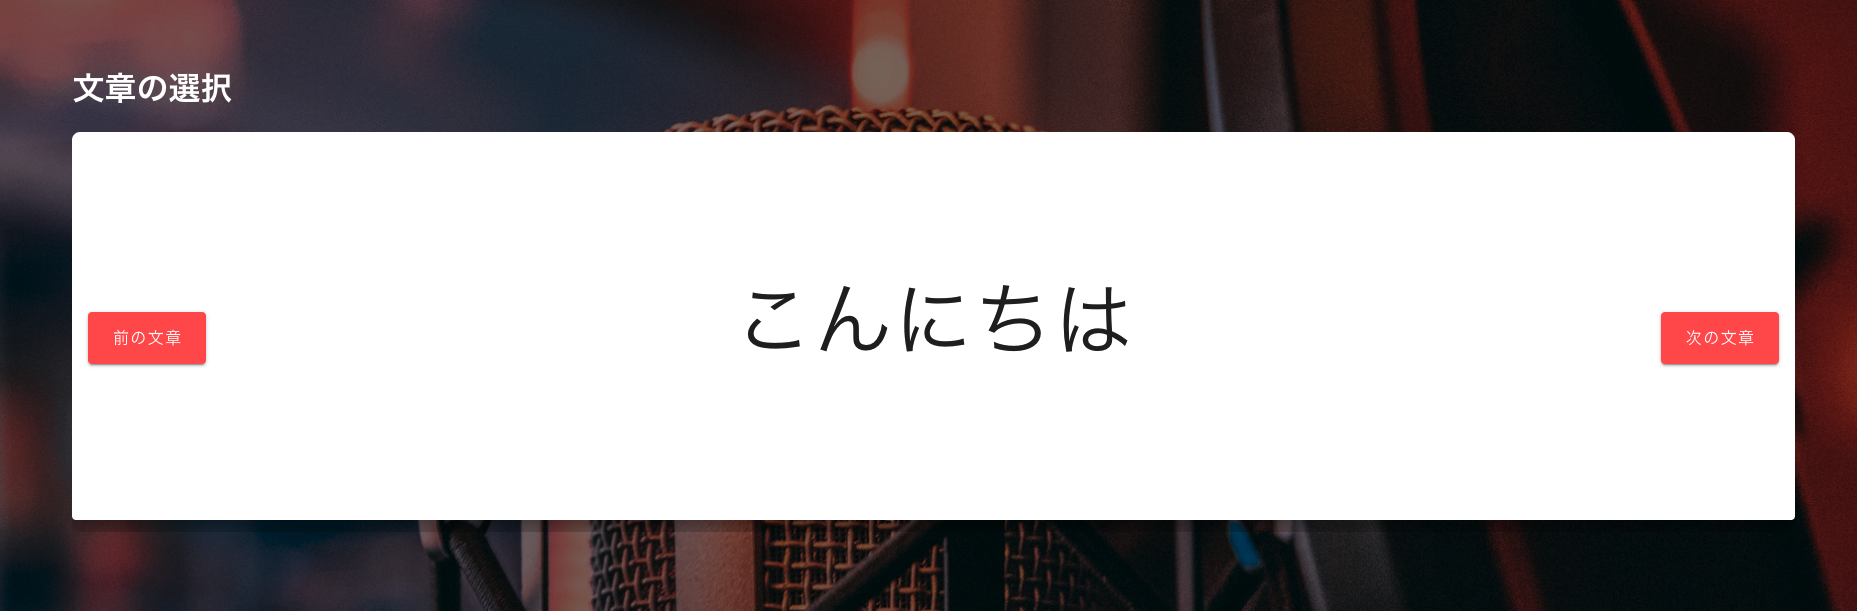
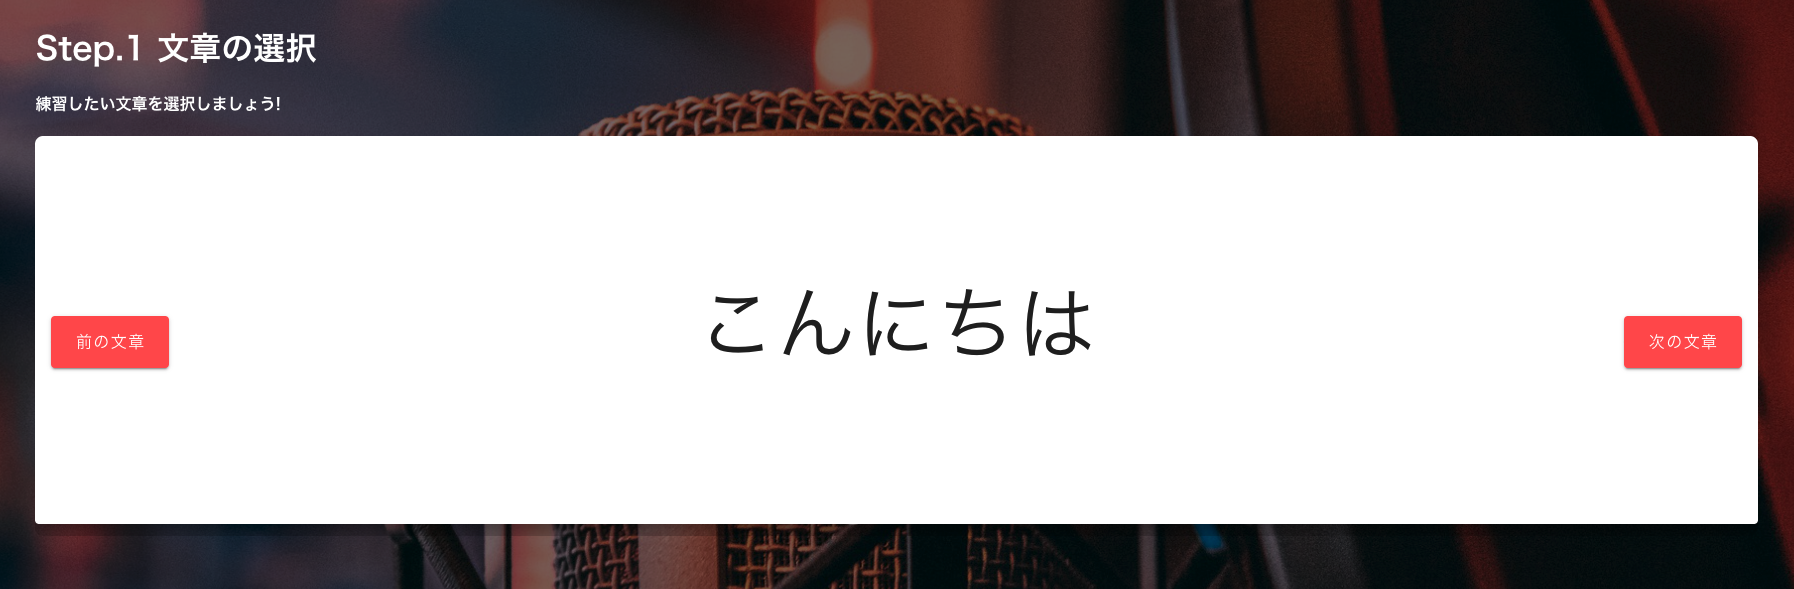
style: 各練習ページに説明を追加,how-toページの画像を新しいものに差し替え #50

Changed region(s): [[0.0, 0.0, 1.0, 1.0], [0.3746, 0.4584, 0.6243, 0.6112], [0.2185, 0.0, 0.2497, 0.0306]]

diff --git a/app/javascript/pages/practice/normal-practice.vue b/app/javascript/pages/practice/normal-practice.vue
@@ -15,8 +15,13 @@
           <h1
             class="white--text"
           >
-            通常練習
+            Step.2 通常練習
           </h1>
+        </div>
+        <div
+        class="white--text font-weight-bold pb-5"
+        >
+        まずは普通の文章を録音してみましょう!
         </div>
         <v-card 
           elevation="20"
@@ -82,7 +87,7 @@
             class="my-10"
             x-large
           >
-            次の練習へ    
+            母音法で練習する!   
           </v-btn>
         </v-row>
       </v-col>

diff --git a/app/javascript/pages/practice/boin-practice.vue b/app/javascript/pages/practice/boin-practice.vue
@@ -15,8 +15,13 @@
           <h1
             class="white--text"
           >
-            母音法で練習
+            Step.3 母音法で練習
           </h1>
+        </div>
+        <div
+        class="white--text font-weight-bold pb-5"
+        >
+        母音の文章を<span class="red--text">しっかり・ゆっくり</span>発音した後に普通の文章を録音してみましょう!
         </div>
         <v-card
           class="mb-3"

diff --git a/app/javascript/pages/how-to/index.vue b/app/javascript/pages/how-to/index.vue
@@ -86,7 +86,7 @@
           <v-img
             :src="srcHowToNormal"
             width="900"
-            height="300"
+            height="350"
             class="position"
           />
           <div
@@ -106,8 +106,8 @@
           </div>
           <v-img
             :src="srcHowToBoin"
-            width="1000"
-            height="400"
+            width="1100"
+            height="500"
             class="position"
           />
           <div

diff --git a/app/javascript/pages/select/index.vue b/app/javascript/pages/select/index.vue
@@ -16,8 +16,13 @@
           <h1
             class="white--text"
           >
-            文章の選択
+            Step.1 文章の選択
           </h1>          
+        </div>
+         <div
+        class="white--text font-weight-bold pb-5"
+        >
+        練習したい文章を選択しましょう!
         </div>
         <v-carousel
           hide-delimiter-background
